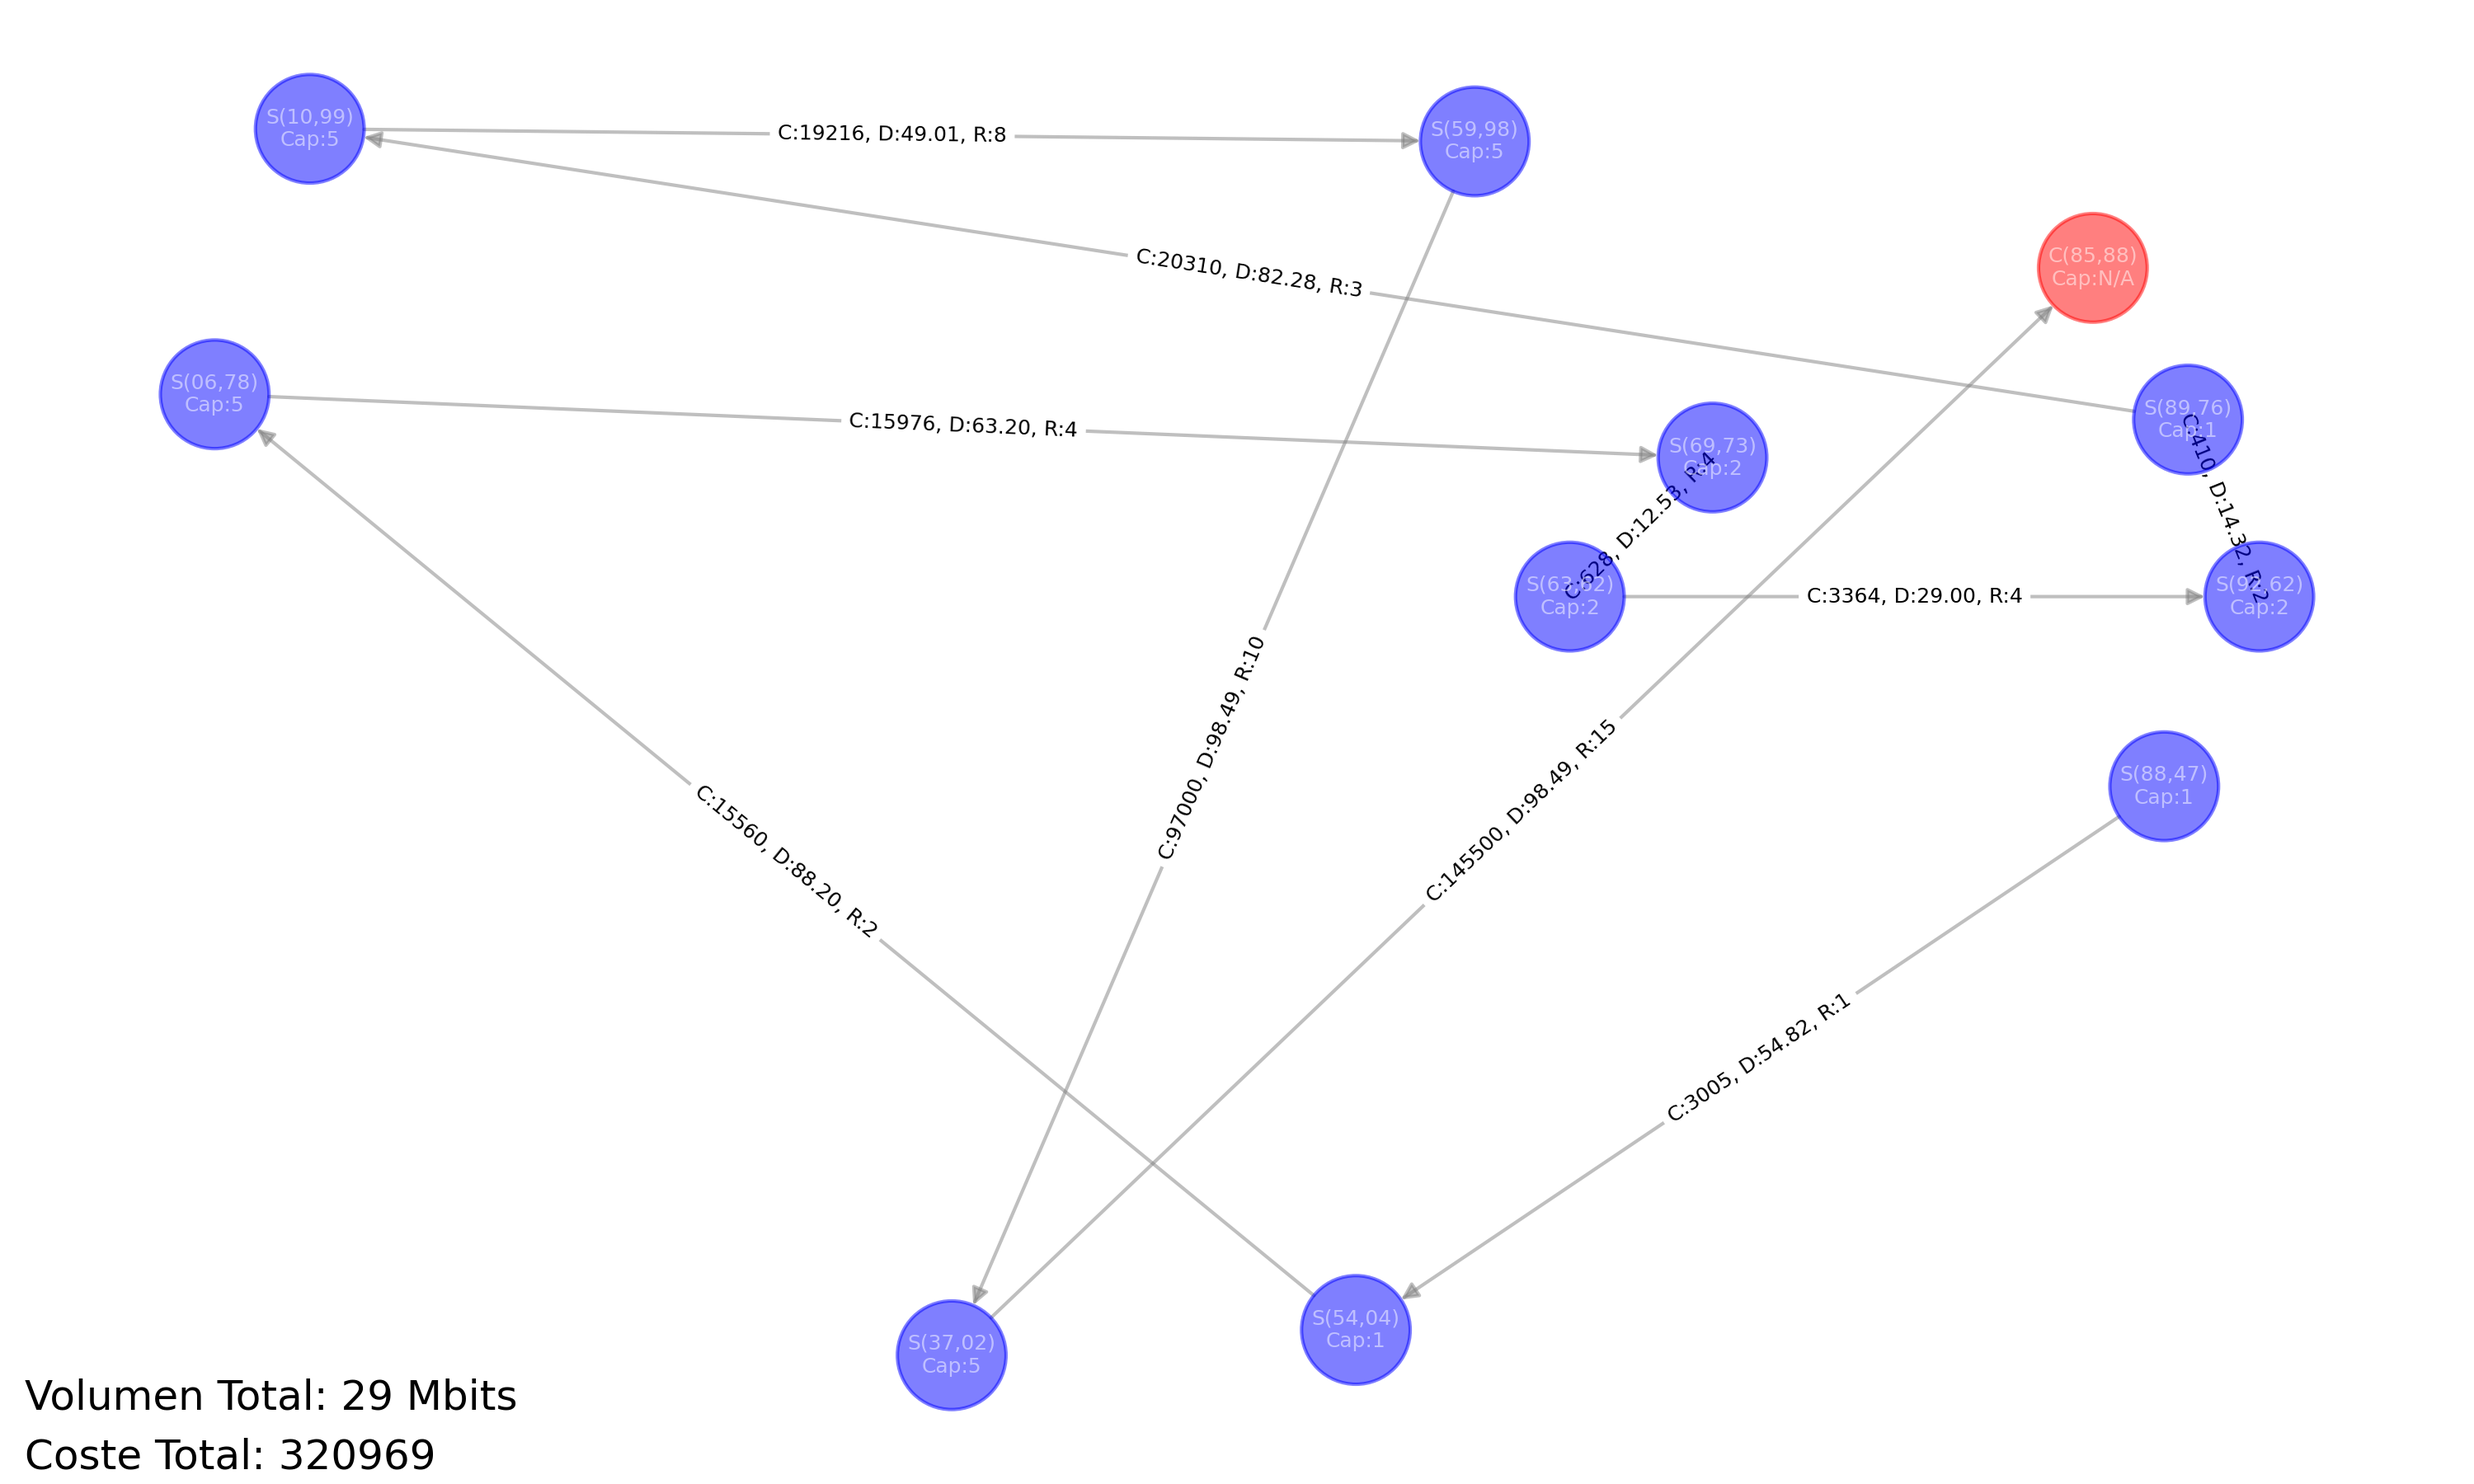
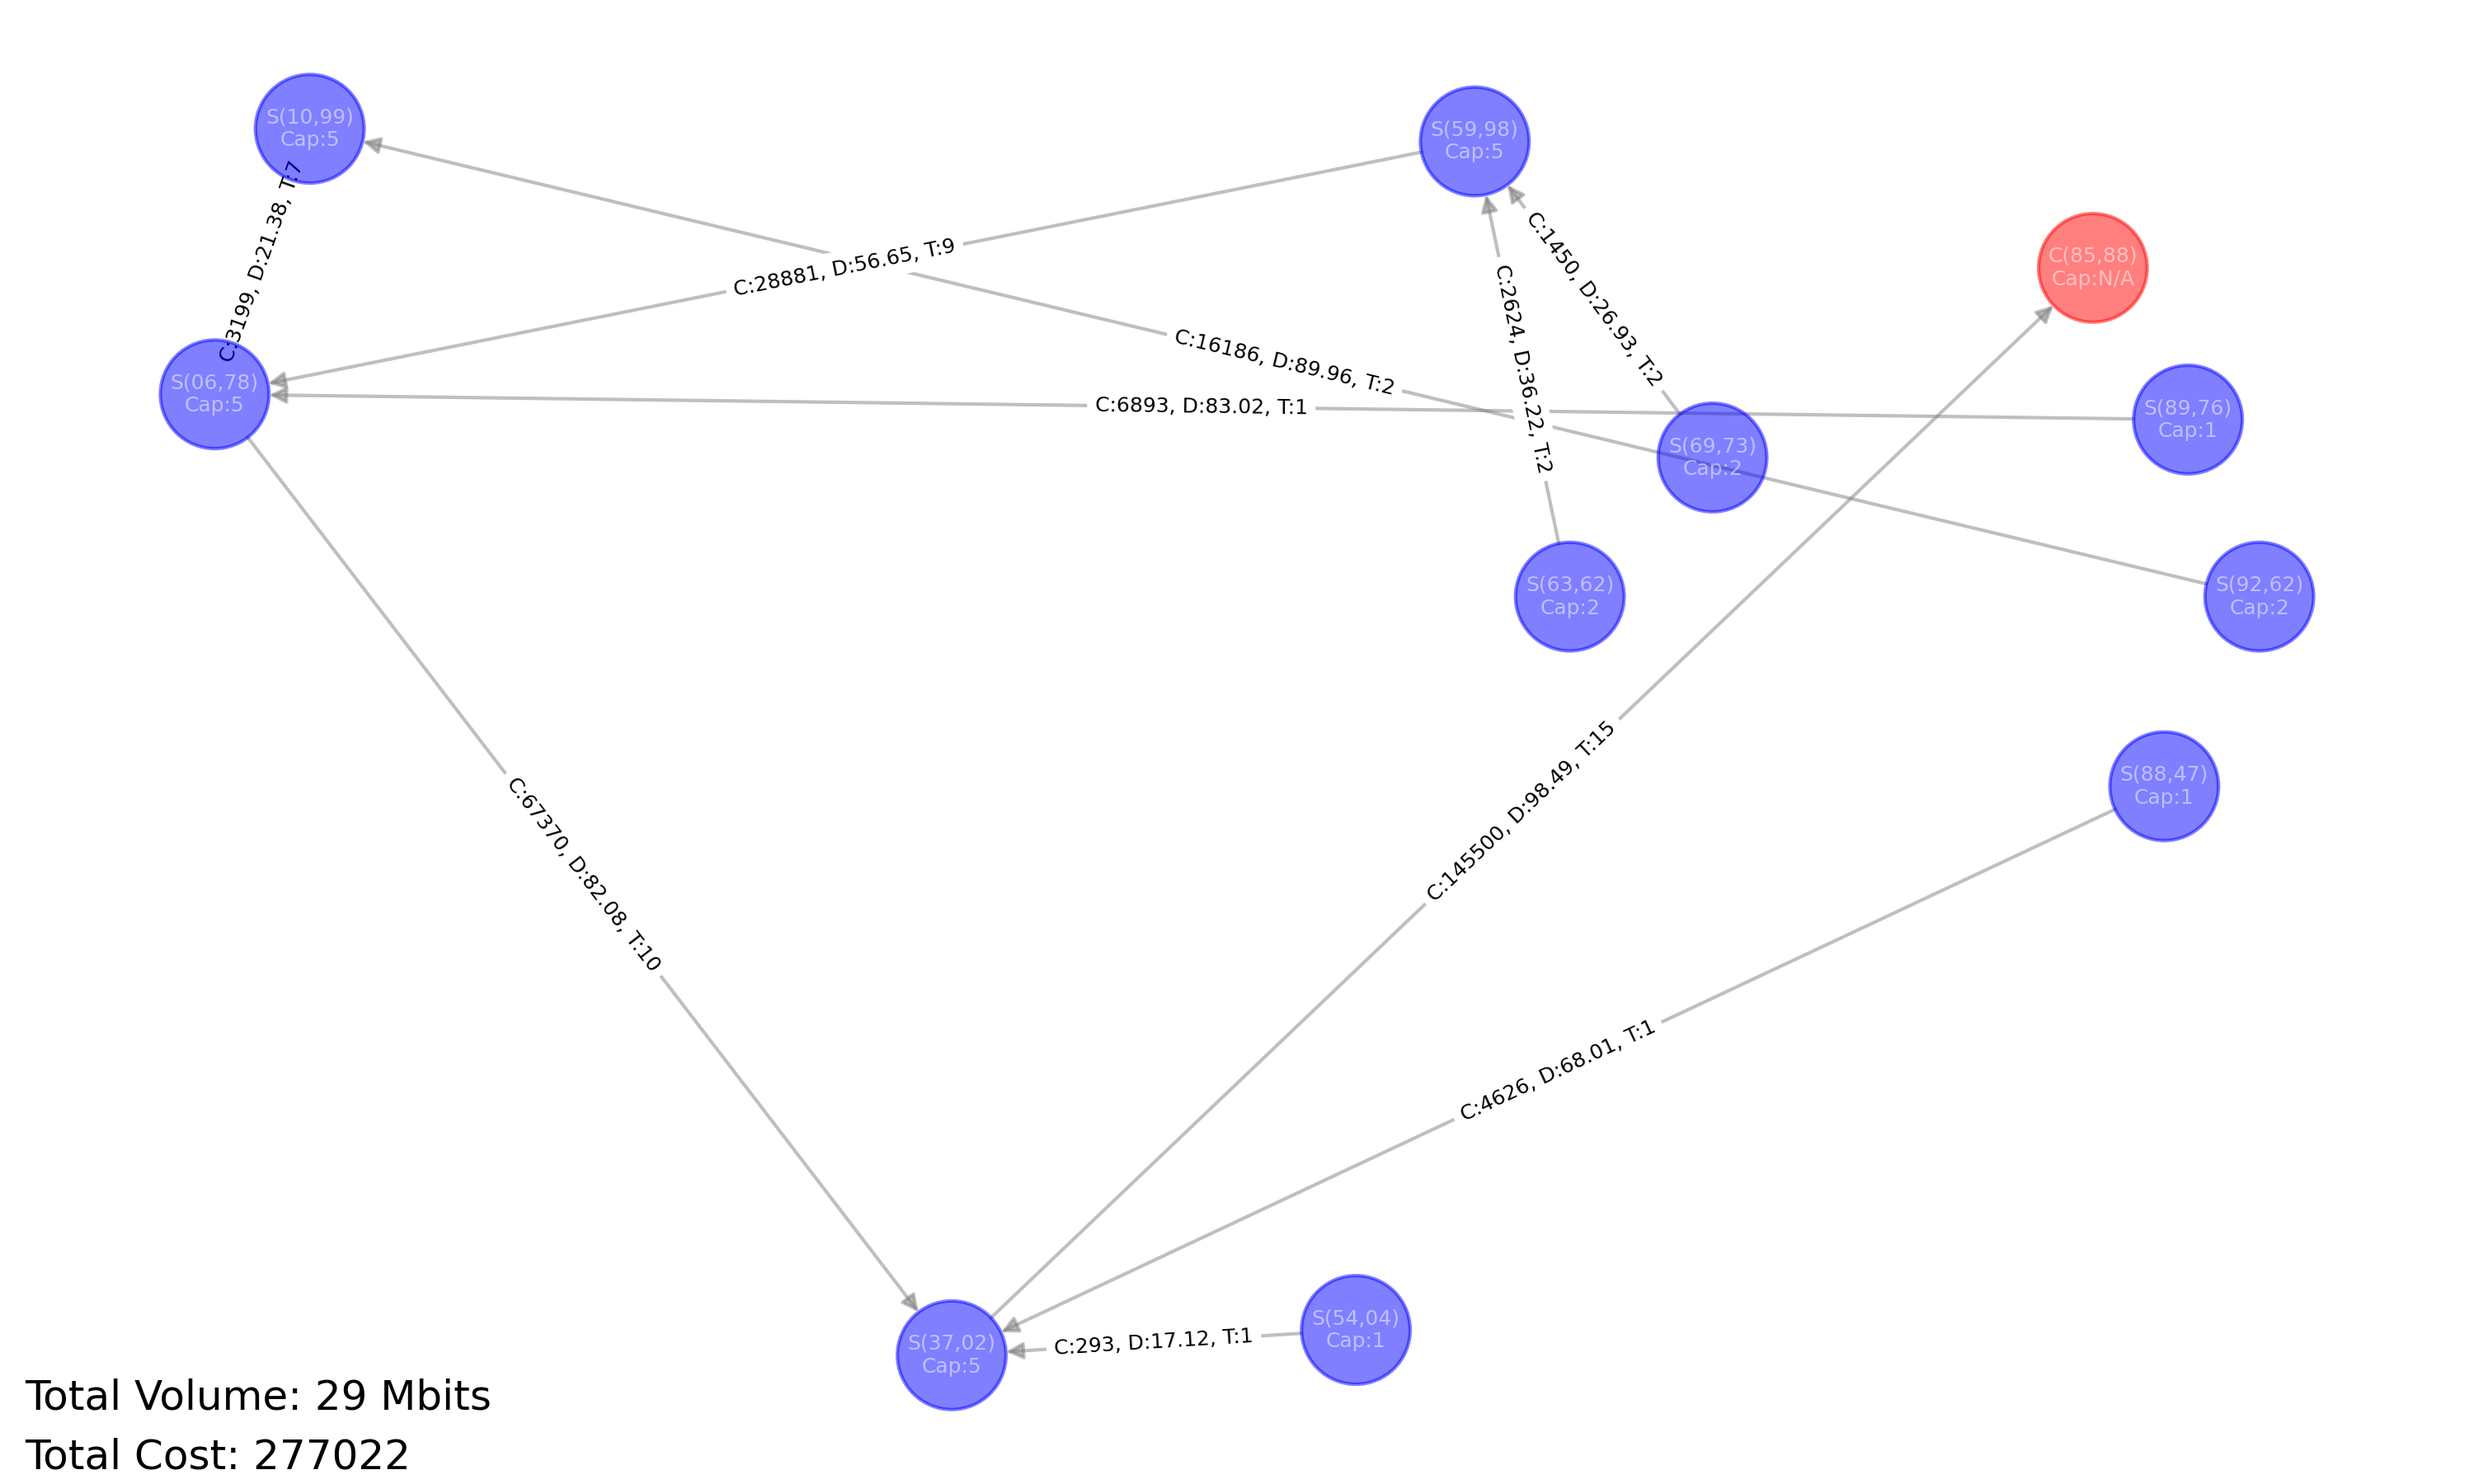
fix

diff --git a/app/src/main/java/IA/drawGraph.py b/app/src/main/java/IA/drawGraph.py
@@ -3,16 +3,16 @@ import re
 import networkx as nx
 import matplotlib.pyplot as plt
 
-# Expresión regular mejorada para detectar conexiones sensor-sensor y sensor-center
+# Improved regular expression to detect sensor-to-sensor and sensor-to-center connections
 edge_pattern = re.compile(
-    r"Edge: distance: (\d+\.\d+) (?:dstReception|centerReception): (\d+) cost: (\d+)\s+"
+    r"Edge: distance: (\d+\.\d+) (?:transmition): (\d+) cost: (\d+)\s+" 
     r"sensor\(x=(\d+), y=(\d+), capacity=(\d+)\) -> "
     r"(?:sensor\(x=(\d+), y=(\d+), capacity=\d+\)|center\(x=(\d+), y=(\d+)\))"
 )
 
-# Función para leer el archivo y construir el grafo
+# Function to read the file and build the graph
 def build_graph_from_file(file_path):
-    G = nx.DiGraph()  # Grafo dirigido
+    G = nx.DiGraph()  # Directed graph
     total_cost = 0
     total_volume = 0
 
@@ -21,35 +21,35 @@ def build_graph_from_file(file_path):
             for line in file:
                 match = edge_pattern.search(line)
                 if match:
-                    distance, reception, cost, sx, sy, capacity, sx2, sy2, cx, cy = match.groups()
+                    distance, transmition, cost, sx, sy, capacity, sx2, sy2, cx, cy = match.groups()
                     
-                    # Identificar nodos
+                    # Identify nodes
                     sensor_node = f"S({sx},{sy})"
-                    sensor_capacity = int(capacity)  # Obtener la capacidad del sensor
-                    if cx and cy:  # Conexión a un centro
+                    sensor_capacity = int(capacity)  # Get sensor capacity
+                    if cx and cy:  # Connection to a center
                         target_node = f"C({cx},{cy})"
                         G.add_node(target_node, pos=(int(cx), int(cy)), type="center")
-                    else:  # Conexión a otro sensor
+                    else:  # Connection to another sensor
                         target_node = f"S({sx2},{sy2})"
                         G.add_node(target_node, pos=(int(sx2), int(sy2)), type="sensor")
 
-                    # Agregar nodos y arista
+                    # Add nodes and edge
                     G.add_node(sensor_node, pos=(int(sx), int(sy)), type="sensor", capacity=sensor_capacity)
-                    G.add_edge(sensor_node, target_node, distance=float(distance), cost=int(cost), reception=int(reception))
+                    G.add_edge(sensor_node, target_node, distance=float(distance), cost=int(cost), transmition=int(transmition))
 
-                    # Sumar costos y volumen
+                    # Add costs and volume
                     total_cost += int(cost)
                     total_volume += int(capacity)
 
         return G, total_cost, total_volume
     except FileNotFoundError:
-        print(f"Error: El archivo {file_path} no existe.")
+        print(f"Error: The file {file_path} does not exist.")
         return None, 0, 0
 
-# Función para dibujar el grafo con colores diferenciados
+# Function to draw the graph with differentiated colors
 def draw_graph(G, total_cost, total_volume, output_path):
     if G is None or len(G.nodes) == 0:
-        print("No hay datos para dibujar el grafo.")
+        print("No data to draw the graph.")
         return
     
     num_nodes = len(G.nodes)
@@ -59,43 +59,43 @@ def draw_graph(G, total_cost, total_volume, output_path):
     pos = nx.get_node_attributes(G, "pos")  
     labels = {node: f"{node}\nCap:{G.nodes[node].get('capacity', 'N/A')}" for node in G.nodes}
 
-    # Definir colores: sensores azules, centros rojos
+    # Define colors: blue for sensors, red for centers
     node_colors = ["red" if G.nodes[n]["type"] == "center" else "blue" for n in G.nodes]
 
-    # Dibujar el grafo con nodos transparentes
+    # Draw the graph with transparent nodes
     nx.draw(G, pos, with_labels=True, labels=labels, node_size=1000, node_color=node_colors, font_size=6, font_color="white", edge_color="gray", alpha=0.5)
 
-    # Etiquetas para las aristas (costo + distancia + recepción)
-    edge_labels = {(u, v): f"C:{d['cost']}, D:{d['distance']:.2f}, R:{d['reception']}" for u, v, d in G.edges(data=True)}
+    # Edge labels (cost + distance + transmission)
+    edge_labels = {(u, v): f"C:{d['cost']}, D:{d['distance']:.2f}, T:{d['transmition']}" for u, v, d in G.edges(data=True)}
     nx.draw_networkx_edge_labels(G, pos, edge_labels=edge_labels, font_size=6)
 
-    plt.title("Grafo de Sensores y Centros de Recepción")
+    plt.title("Graph of Sensors and Transmission Centers")
 
-    # Mostrar valores de coste y volumen
-    plt.figtext(0.01, 0.01, f"Coste Total: {total_cost}", fontsize=12, ha="left")
-    plt.figtext(0.01, 0.05, f"Volumen Total: {total_volume} Mbits", fontsize=12, ha="left")
+    # Display total cost and volume values
+    plt.figtext(0.01, 0.01, f"Total Cost: {total_cost}", fontsize=12, ha="left")
+    plt.figtext(0.01, 0.05, f"Total Volume: {total_volume} Mbits", fontsize=12, ha="left")
 
-    # Guardar imagen
+    # Save image
     plt.savefig(output_path, dpi=300)
     plt.close()
-    print(f"Grafo guardado en '{output_path}'")
+    print(f"Graph saved in '{output_path}'")
 
-# Directorios de entrada y salida
+# Input and output directories
 in_file_path_dir = "./app/src/main/java/IA/outputs/"
 out_file_path_dir = "./app/src/main/java/IA/graphs/"
 
-# Expresión regular para capturar el número del archivo outputX.out
+# Regular expression to capture the output file number outputX.out
 file_pattern = re.compile(r"output(\d+)\.out")
 
-# Obtener y ordenar los archivos por su índice numérico
+# Get and sort files by their numeric index
 input_files = sorted(
     (f for f in os.listdir(in_file_path_dir) if file_pattern.match(f)),
-    key=lambda x: int(file_pattern.match(x).group(1))  # Extraer y ordenar por el índice numérico
+    key=lambda x: int(file_pattern.match(x).group(1))  # Extract and sort by numeric index
 )
 
-print("Archivos detectados:", input_files)
+print("Detected files:", input_files)
 
-# Procesar cada archivo de entrada
+# Process each input file
 for input_file in input_files:
     match = file_pattern.match(input_file)
     if match:
@@ -103,6 +103,6 @@ for input_file in input_files:
         file_path = os.path.join(in_file_path_dir, input_file)
         output_path = os.path.join(out_file_path_dir, f"graph{index}.png")
 
-        # Construir el grafo y generar la imagen
+        # Build the graph and generate the image
         graph, total_cost, total_volume = build_graph_from_file(file_path)
         draw_graph(graph, total_cost, total_volume, output_path)

diff --git a/app/src/main/java/IA/State/State.java b/app/src/main/java/IA/State/State.java
@@ -119,9 +119,8 @@ public final class State {
 
     private void connectSensor(int sensorIndex, Node dst) {
         Node src = sensors.get(sensorIndex);
-
         // Update distance cost
-        // TODO check if ok
+        // TODO check if ok (its wrong, it complicate to do incremental)
         int volume = ((Sensor) src).getRealSendingVolumne(dst, sensorReceivingVolume[sensorIndex]);
         if (sensorConnectedTo[sensorIndex] != null) {
             // TODO update sensorReceivingVolume
@@ -129,7 +128,6 @@ public final class State {
         }
         if (dst != null)
             totalCost += src.sqDistance(dst) * volume;
-        System.out.println(src.sqDistance(dst) * volume);
 
         // Update volume cost
         // TODO (maybe nothing todo)
@@ -146,6 +144,7 @@ public final class State {
         while (next != null && !next.isCenter()) {
             int recivedVolume = sensorReceivingVolume[sensors.indexOf(act)];
             sensorReceivingVolume[sensors.indexOf(next)] += ((Sensor) act).getRealSendingVolumne(next, recivedVolume);
+
             act = next;
             next = sensorConnectedTo[sensors.indexOf(act)];
         }
@@ -182,22 +181,18 @@ public final class State {
             System.out.println(center);
 
         for (int sensorIndex = 0; sensorIndex < sensors.size(); ++sensorIndex) {
-            Node src = sensors.get(sensorIndex);
+            Sensor src = sensors.get(sensorIndex);
             Node dst = sensorConnectedTo[sensorIndex];
             if (dst == null)
                 continue;
 
             System.out.print("Edge: distance: " + String.format("%.2f", src.distance(dst)));
-            if (dst.isCenter()) {
-                System.out.print(" centerReception: " + (sensorReceivingVolume[sensorIndex] + src.getCapacity()));
-                System.out.print(
-                        " cost: " + src.sqDistance(dst) * (sensorReceivingVolume[sensorIndex] + src.getCapacity()));
-            } else {
-                System.out.print(
-                        " dstReception: " + sensorReceivingVolume[sensors.indexOf(sensorConnectedTo[sensorIndex])]);
-                System.out.print(" cost: "
-                        + src.sqDistance(dst) * sensorReceivingVolume[sensors.indexOf(sensorConnectedTo[sensorIndex])]);
-            }
+            int recivedVolume = sensorReceivingVolume[sensorIndex];
+            int volume = src.getRealSendingVolumne(dst, recivedVolume);
+      
+            System.out.print(" transmition: " + volume);
+            System.out.print(" cost: "+ src.sqDistance(dst) * volume);
+            
 
             System.out.print("\t\t");
             System.out.println(" " + src + " -> " + dst);

diff --git a/app/src/main/java/main/App.java b/app/src/main/java/main/App.java
@@ -12,7 +12,7 @@ public class App {
         Test test = new Test();
         
         //test.run("");
-        int index = 0; // Starting from 0
+        int index = 2; // Starting from 0
         test.run(FILE_DIR_PATH + "input" + index + ".ini");
     }
     
